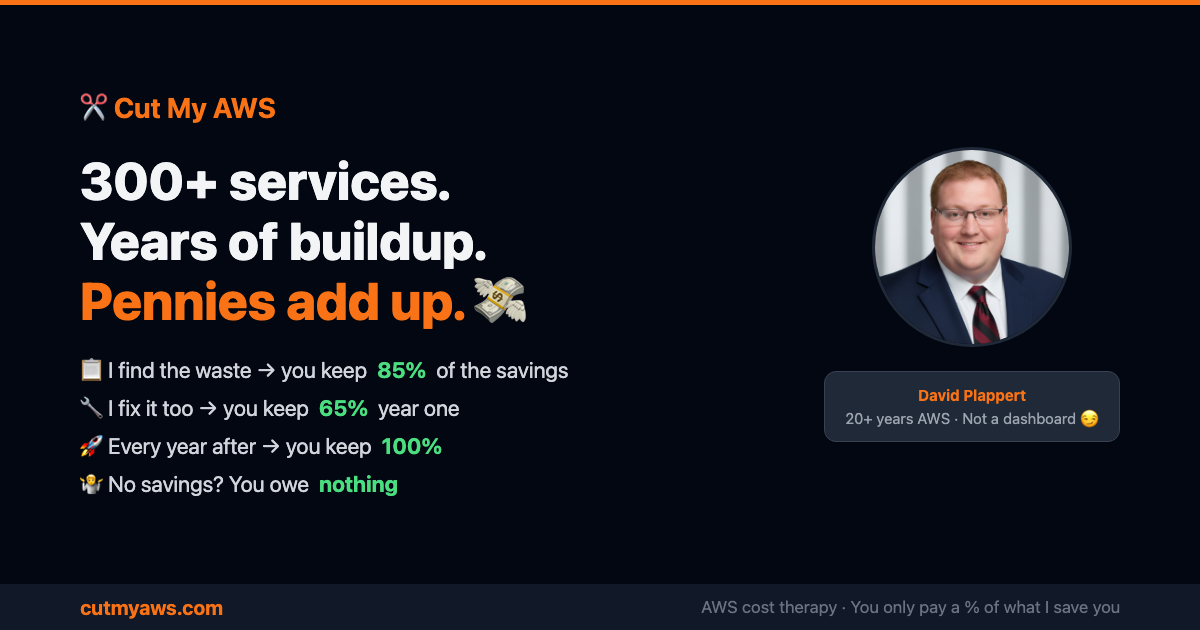
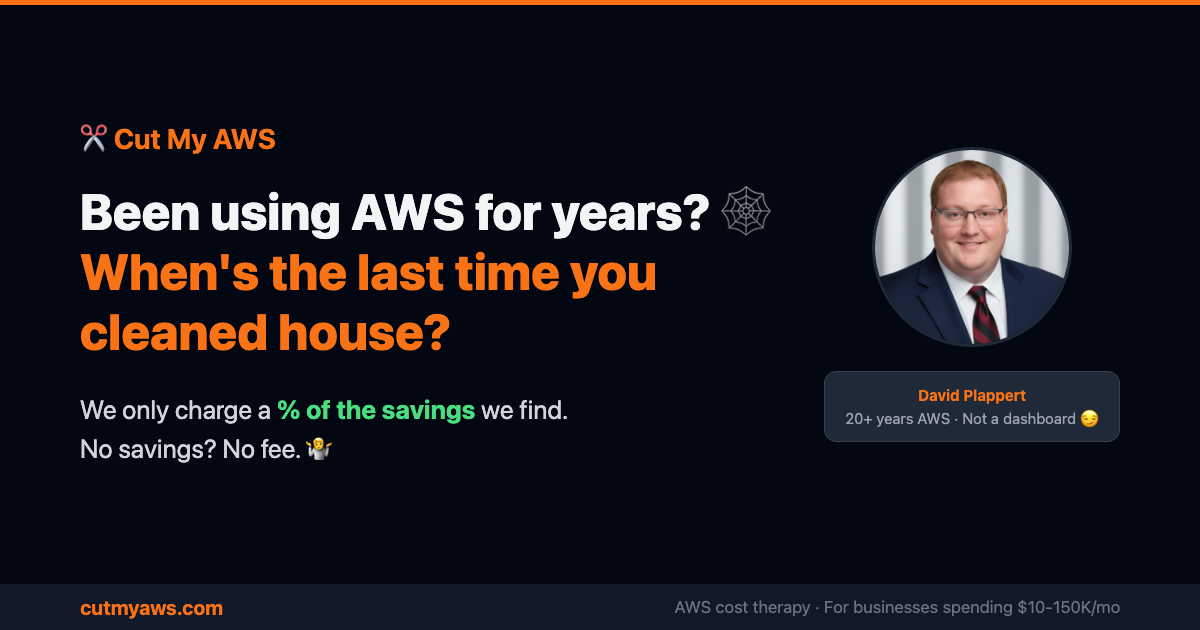
Reframe hero: "Been using AWS for years? When's the last time you cleaned house?"
- Question-based hero that makes them think, not defensive
- "We only charge a % of the savings we find" as core value prop
- Cobwebs / dust metaphor throughout
- OG image matches new messaging
- All meta/social cards updated

diff --git a/nuxt.config.ts b/nuxt.config.ts
@@ -11,20 +11,20 @@ export default defineNuxtConfig({
   app: {
     head: {
       htmlAttrs: { lang: 'en' },
-      title: 'Cut My AWS — 300+ Services. Years of Buildup. Pennies Add Up. ($10-150K/mo)',
+      title: 'Cut My AWS — Been Using AWS for Years? When\'s the Last Time You Cleaned House?',
       meta: [
         { charset: 'utf-8' },
         { name: 'viewport', content: 'width=device-width, initial-scale=1' },
 
         // SEO meta
-        { name: 'description', content: '300+ AWS services. Years of buildup. Pennies add up. A real human with 20+ years digs through the garbage you\'re paying for and makes your AWS not just cheaper — but better. $99 starts the conversation. You only pay a % of what I save you. For businesses spending $10-150K/mo.' },
+        { name: 'description', content: 'Been using AWS for years? 300+ services. Years of buildup. Cobwebs everywhere. We only charge a % of the savings we find — no savings, no fee. A real human with 20+ years makes your AWS not just cheaper, but better. $99 starts the conversation.' },
         { name: 'keywords', content: 'AWS cost optimization, AWS cost audit, AWS cost reduction, AWS consulting, serverless migration, cloud cost management, FinOps, AWS savings, cut AWS bill, AWS waste, business-aligned technology audit' },
         { name: 'author', content: 'David Plappert' },
         { name: 'robots', content: 'index, follow' },
 
         // Open Graph
-        { property: 'og:title', content: 'Cut My AWS — 300+ Services. Years of Buildup. Pennies Add Up.' },
-        { property: 'og:description', content: 'You\'ve been busy building. AWS has been busy collecting rent. A real human with 20+ years digs through the garbage and makes your cloud not just cheaper — but better.' },
+        { property: 'og:title', content: 'Cut My AWS — Been Using AWS for Years? When\'s the Last Time You Cleaned House?' },
+        { property: 'og:description', content: 'We only charge a % of the savings we find. No savings, no fee. A real human with 20+ years makes your AWS not just cheaper — but better.' },
         { property: 'og:type', content: 'website' },
         { property: 'og:url', content: 'https://cutmyaws.com' },
         { property: 'og:site_name', content: 'Cut My AWS' },
@@ -33,8 +33,8 @@ export default defineNuxtConfig({
 
         // Twitter Card
         { name: 'twitter:card', content: 'summary_large_image' },
-        { name: 'twitter:title', content: 'Cut My AWS — 300+ Services. Years of Buildup. Pennies Add Up.' },
-        { name: 'twitter:description', content: 'You\'ve been busy building. AWS has been busy collecting rent. $99 starts the conversation. Not a dashboard. Just David.' },
+        { name: 'twitter:title', content: 'Cut My AWS — When\'s the Last Time You Cleaned House?' },
+        { name: 'twitter:description', content: 'We only charge a % of the savings we find. No savings, no fee. $99 starts the conversation. Not a dashboard. Just David.' },
         { name: 'twitter:image', content: 'https://cutmyaws.com/og-image.png' },
 
         // GEO/AEO: help AI systems understand the page

diff --git a/app/pages/index.vue b/app/pages/index.vue
@@ -74,17 +74,16 @@ const fixNet = exampleAnnual - fixFee
       <div class="max-w-3xl">
         <p class="text-brand-400 font-semibold mb-4 text-lg">🛋 AWS cost therapy for businesses spending $10-150K/mo</p>
         <h1 class="text-4xl sm:text-5xl font-bold leading-tight mb-6">
-          300+ services. Years of buildup.<br>
-          <span class="text-brand-400">Pennies add up. 💸</span>
+          Been using AWS for years? 🕸<br>
+          <span class="text-brand-400">When's the last time you cleaned house?</span>
         </h1>
         <p class="text-xl text-gray-400 mb-4 max-w-2xl">
-          You've been busy building your business. AWS has been busy collecting rent. 🤷
-          Every forgotten snapshot, every oversized database, every server running 24/7 for a workload that left at 5pm &mdash; it all adds up.
-          With 300+ services and a billing page that requires a decoder ring, nobody blames you for not catching it all.
+          300+ services. Years of buildup. Forgotten snapshots, oversized databases, servers running 24/7 for workloads that left at 5pm. 🤷
+          You've been busy building your business &mdash; nobody blames you for not catching it all. That's literally my job.
         </p>
         <p class="text-xl text-gray-400 mb-8 max-w-2xl">
-          I dig through the years of buildup, find the garbage you're paying for, and <strong class="text-gray-200">make your AWS not just cheaper &mdash; but better.</strong>
-          And yes, I'm a real person who does the actual work. Not a bot. Not a dashboard. Just a guy who's been staring at AWS bills for 20+ years and has opinions about all of them. 😏
+          I dig through the cobwebs, find the garbage you're paying for, and <strong class="text-gray-200">make your AWS not just cheaper &mdash; but better.</strong>
+          We only charge a % of the savings we find. No savings? No fee. And yes, I'm a real person &mdash; not a bot, not a dashboard. Just a guy with 20+ years of AWS and opinions about all of it. 😏
         </p>
         <div class="flex flex-col sm:flex-row gap-4">
           <a
